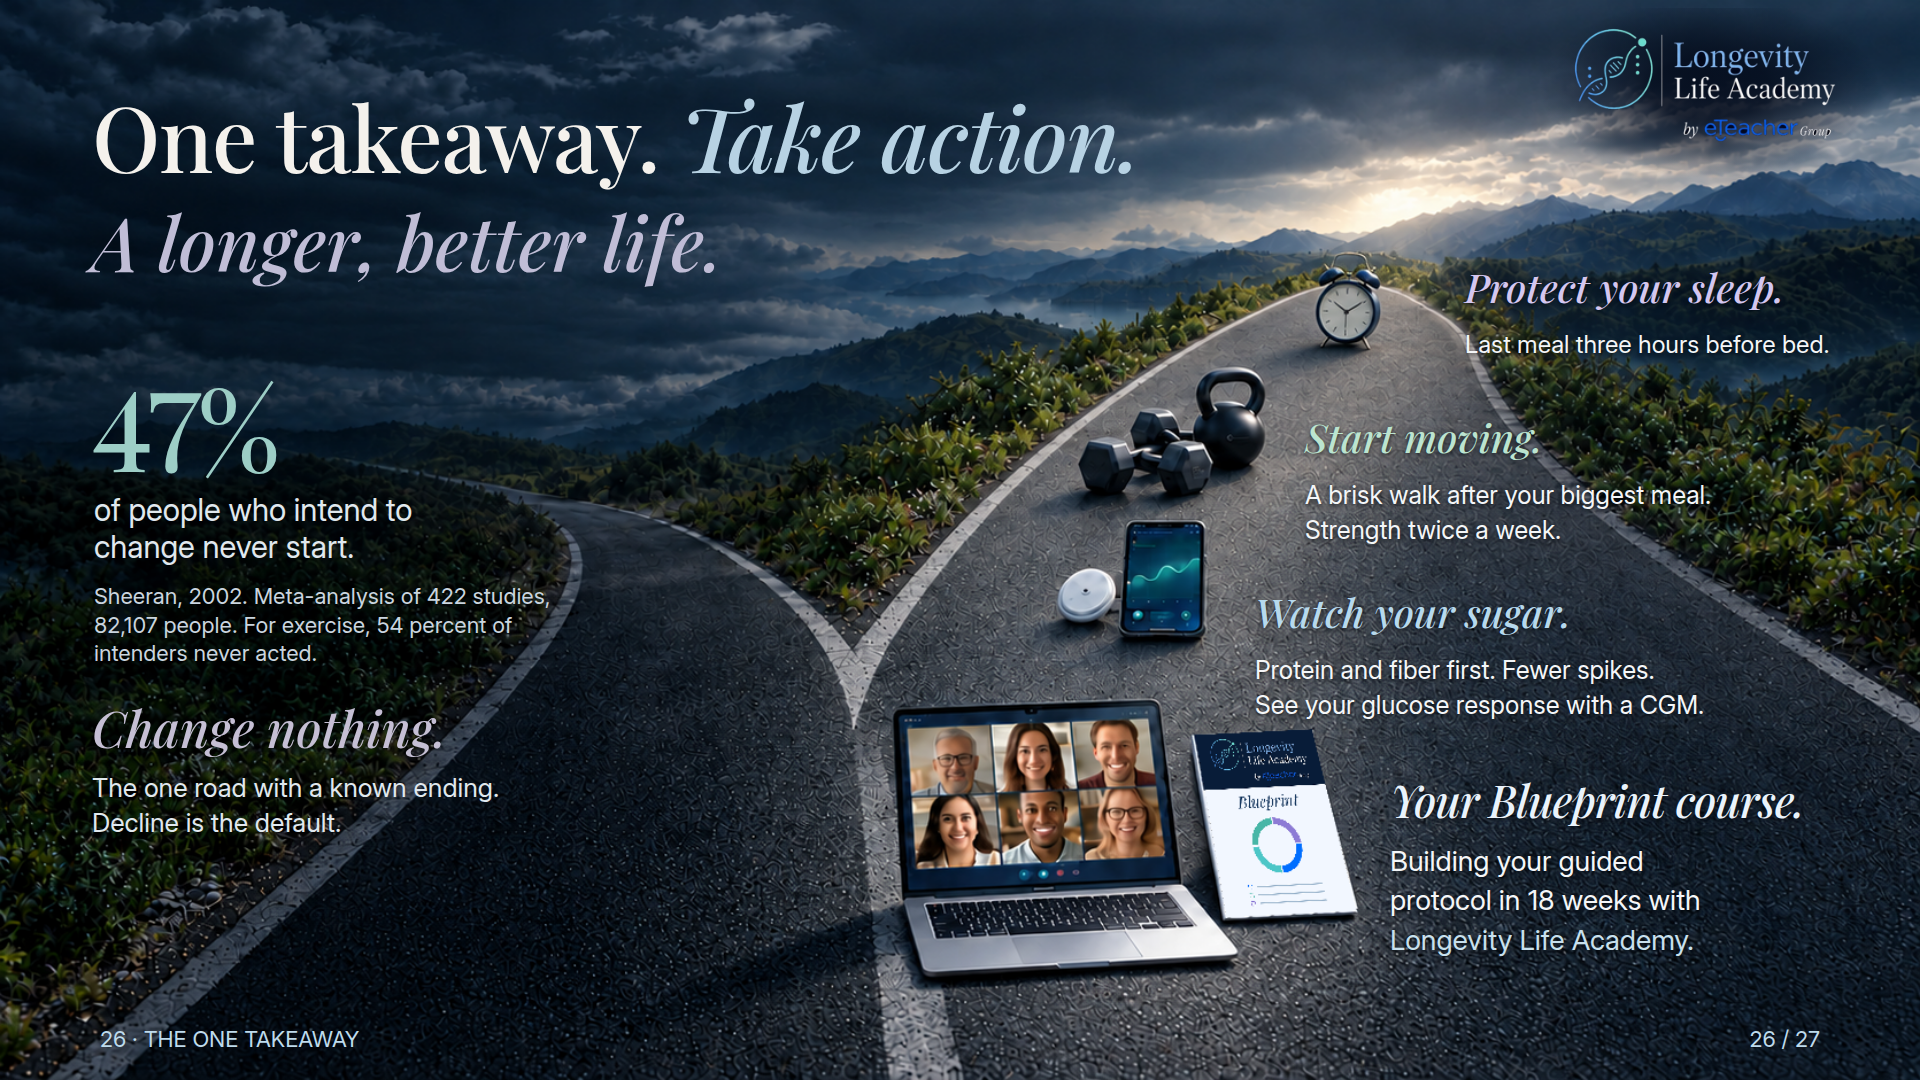
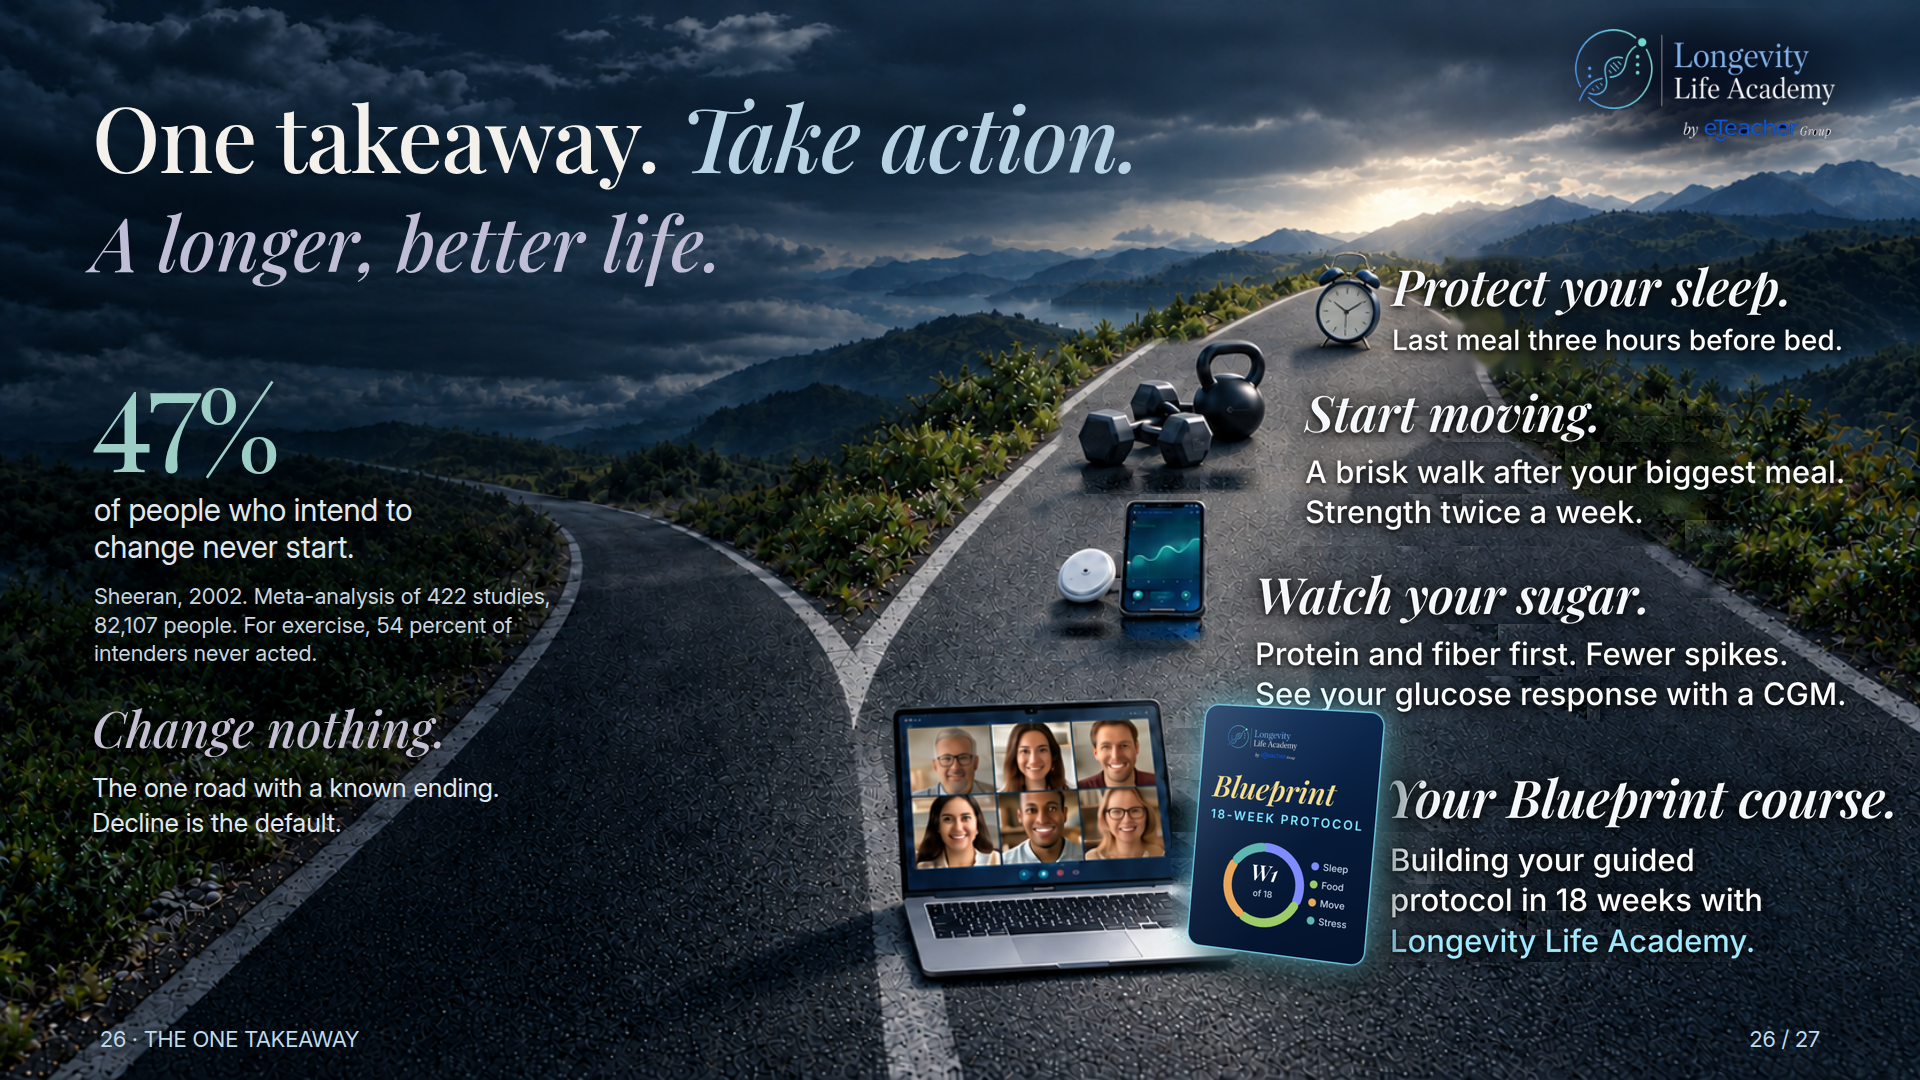
v46 slide 24: Blueprint card redesigned, actions re-spaced, larger bolder action type; PPTX regenerated
Claude-Session: https://claude.ai/code/session_018AwvHVwKmbwjuCiXYn7Sm1

Changed region(s): [[0.5312, 0.3056, 1.0, 0.9167], [0.7188, 0.2444, 0.9688, 0.3361]]

diff --git a/slide-canvas/v46/corrections.js b/slide-canvas/v46/corrections.js
@@ -77,7 +77,7 @@ function newSlot(id,img,title,note,key){
 const sxRisks=newSlot('sx-risks','assets/n22-risks.jpg?v=v46r','The four risks.','Added from the Round 13 page (slide 04, The four risks). Placed after the Dunedin slide, before the cake.','x1');
 const sxBz=newSlot('sx-bz','assets/n23-bluezones.jpg?v=v46r','The Blue Zones.','Added from the Round 13 page (slide 07, The Blue Zones). Placed before the menopause slide.','x2');
 const sxBr=newSlot('sx-brulee','assets/n24-brulee.jpg?v=v46r','Crème brûlée and wrinkles.','Added from the Round 13 page (slide 13, Crème brûlée and wrinkles). Placed after the sugar slide, before Same age.','x3');
-const sxFork=newSlot('sx-fork','assets/n25-fork.png?v=v46r','One takeaway. Take action. (closing)','Closing slide: exactly the Julie deck slide 22 at commit f220cbd, unchanged (image file additional-take-action-20261026.png). It ends the deck.','x4');
+const sxFork=newSlot('sx-fork','assets/n25-fork.png?v=v46s','One takeaway. Take action. (closing)','Closing slide: exactly the Julie deck slide 22 at commit f220cbd, unchanged (image file additional-take-action-20261026.png). It ends the deck.','x4');
 // The user's original slide references define the order, not inferred numbering.
 const orderedIds=['s1','s2','s3','sx-risks','s4','s5','sx-bz','s6','s7','s8','s10-food','s10','s11','sx-brulee','s13','s14','s15','s16','s17','s18','s19','s20','s21','sx-fork'];
 document.body.append(sxRisks,sxBz,sxBr,sxFork);
